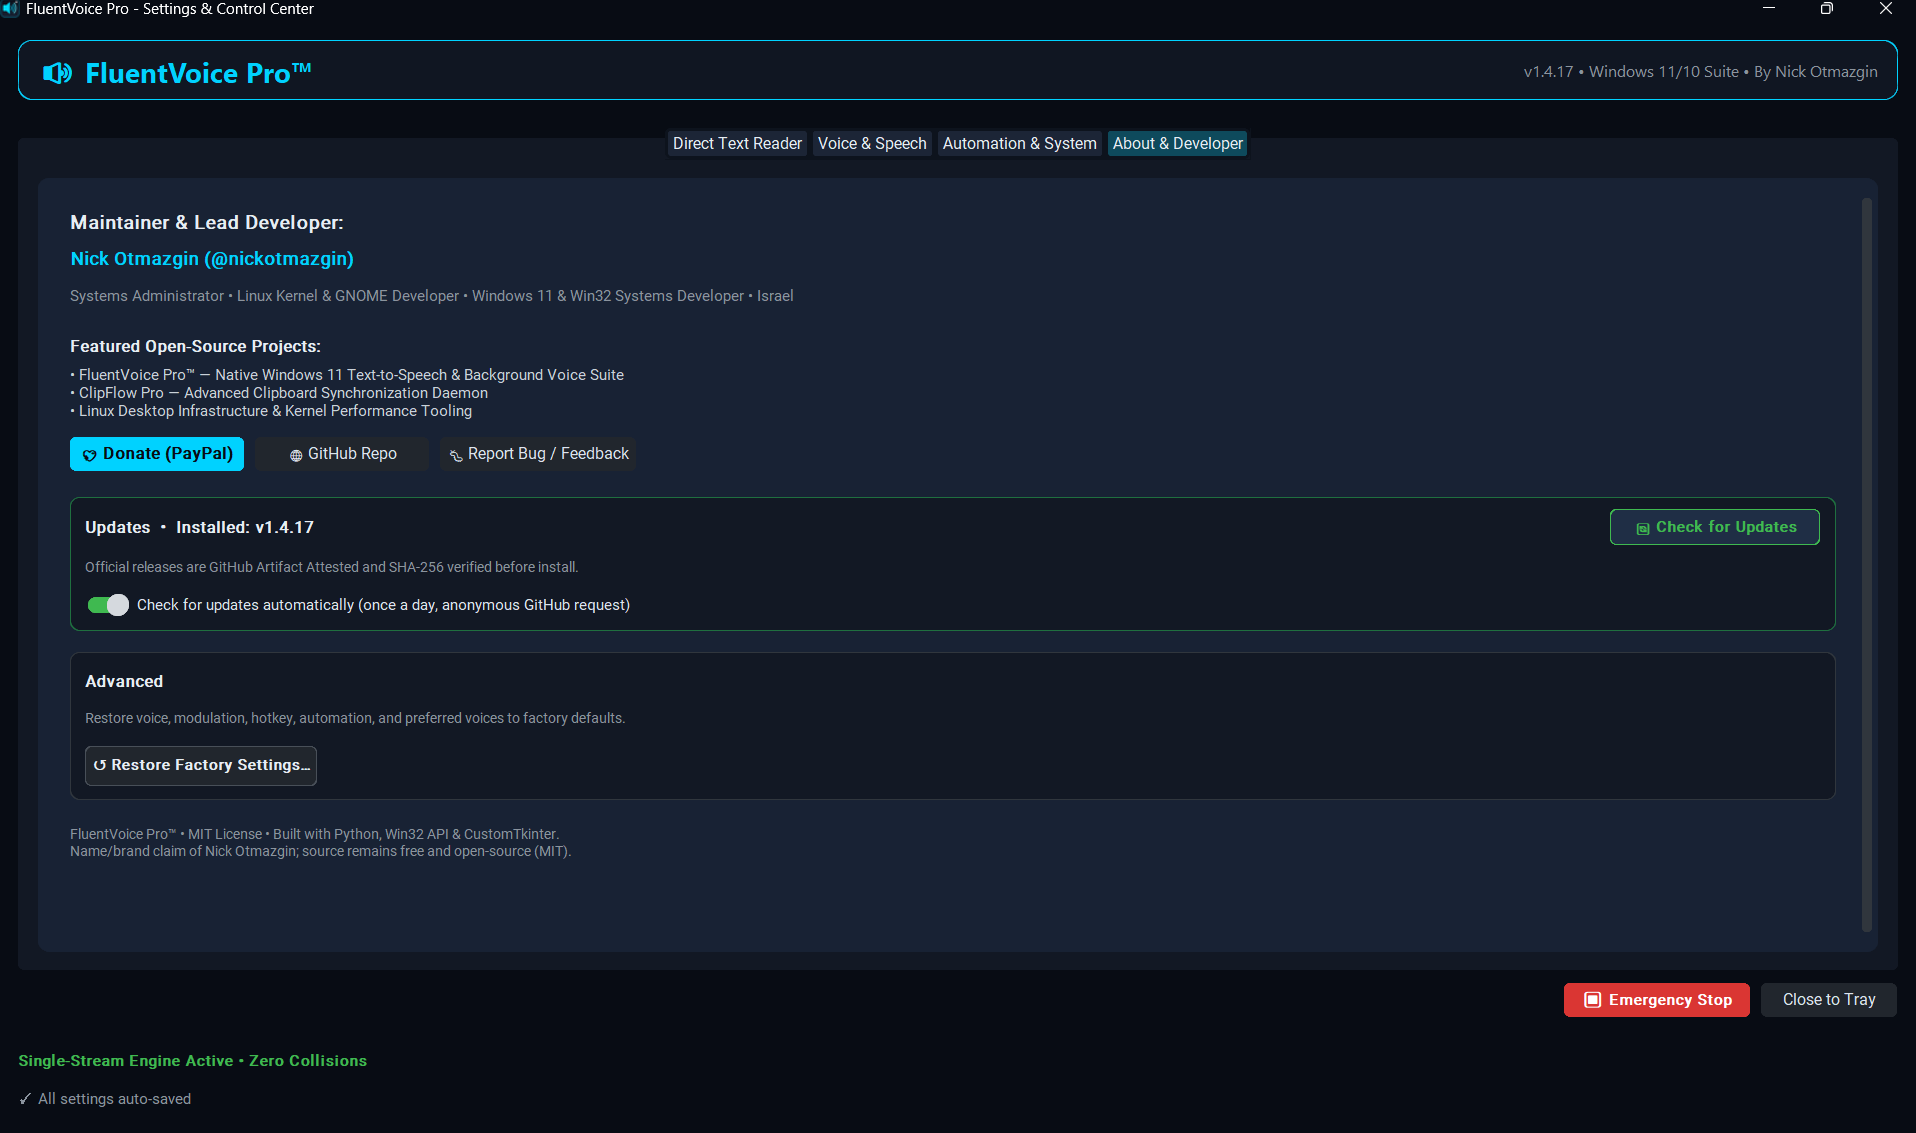
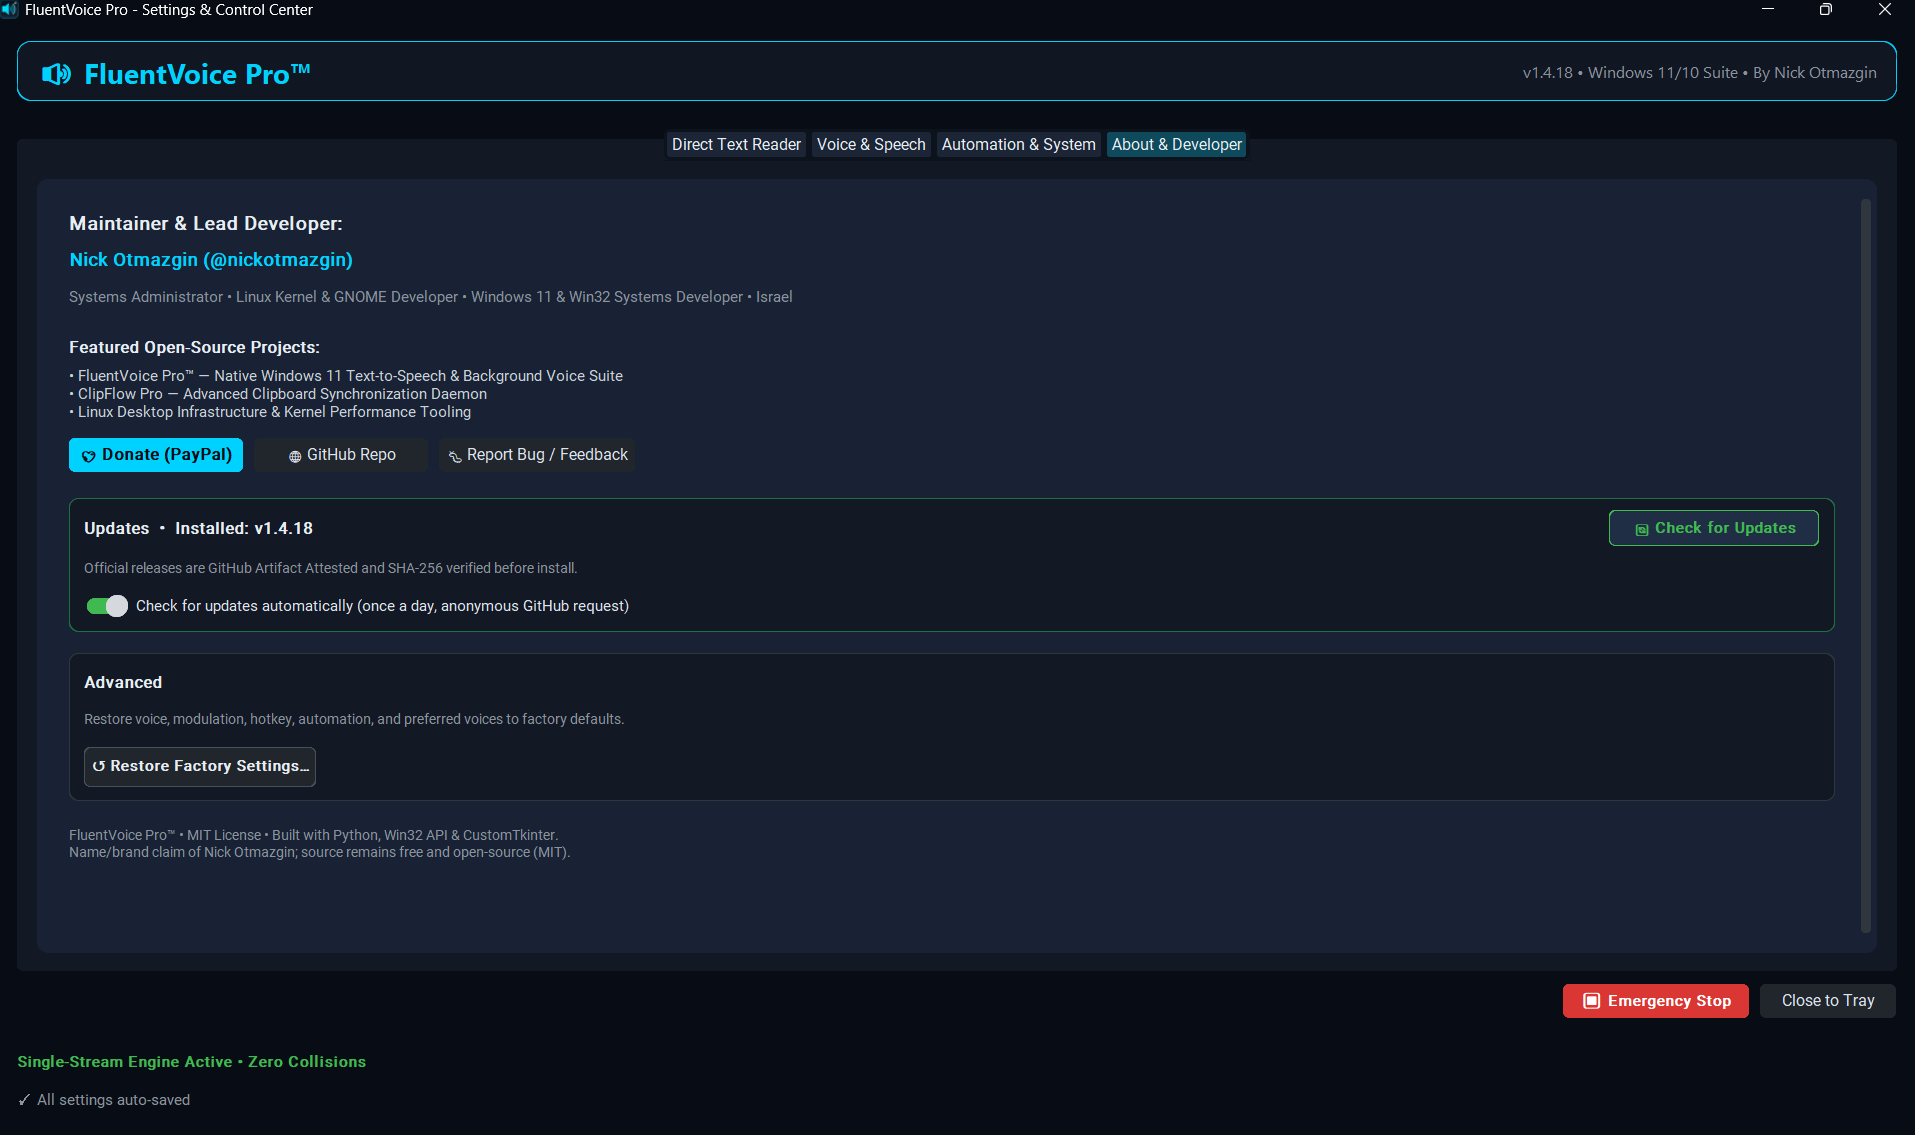
docs: v1.4.18 screenshots retaken + collages rebuilt (#7)

diff --git a/scripts/build_collage.py b/scripts/build_collage.py
@@ -177,11 +177,13 @@ def main() -> None:
     og = gradient_bg(1280, 640)
     accent_bar(og, 6)
     top = header(og, 0.5, 36, 22, compact=True)
+    # Two equal panels sized to the Settings window aspect, centred in the space left.
     m, gap, s = 28, 18, 0.5
-    ph = 640 - top - m
-    wide = int(29 * s) + round((ph - int(29 * s) - int(8 * s)) * 1920 / 1140) + 2 * int(8 * s)
-    panel(og, shots[PANELS[0][0]], PANELS[0][1], PANELS[0][2], m, top, wide, ph, s=s)
-    panel(og, shots[PANELS[4][0]], PANELS[4][1], PANELS[4][2], m + wide + gap, top, 1280 - 2 * m - wide - gap, ph, s=s)
+    pw = (1280 - 2 * m - gap) // 2
+    ph = int(29 * s) + round((pw - 2 * int(8 * s)) * 1140 / 1920) + int(8 * s)
+    y = top + max(0, (640 - top - m - ph) // 2)
+    for i, (f, n, label) in enumerate((PANELS[0], PANELS[4])):
+        panel(og, shots[f], n, label, m + i * (pw + gap), y, pw, ph, s=s)
     og_path = SRC / "social-preview-1280x640.jpg"
     og.save(og_path, "JPEG", quality=94, optimize=True, subsampling=0)
 

diff --git a/CONTRIBUTING.md b/CONTRIBUTING.md
@@ -7,7 +7,7 @@ Thanks for helping improve FluentVoice Pro.
 1. **Bugs** — [Issues](https://github.com/nickotmazgin/fluentvoice-pro/issues) (use the bug template; search first)
 2. **Ideas / Q&A** — [Discussions](https://github.com/nickotmazgin/fluentvoice-pro/discussions)
 3. **Features** — discuss first, then a feature-request issue if needed
-4. **Docs / screenshots** — README, `docs/`, `screenshots/v1.4.3/`
+4. **Docs / screenshots** — README, `docs/`, `screenshots/v<version>/` (rebuild collages with `python scripts/build_collage.py`)
 5. **Code** — bug fixes, tests, packaging (keep PRs focused)
 
 ## Security
